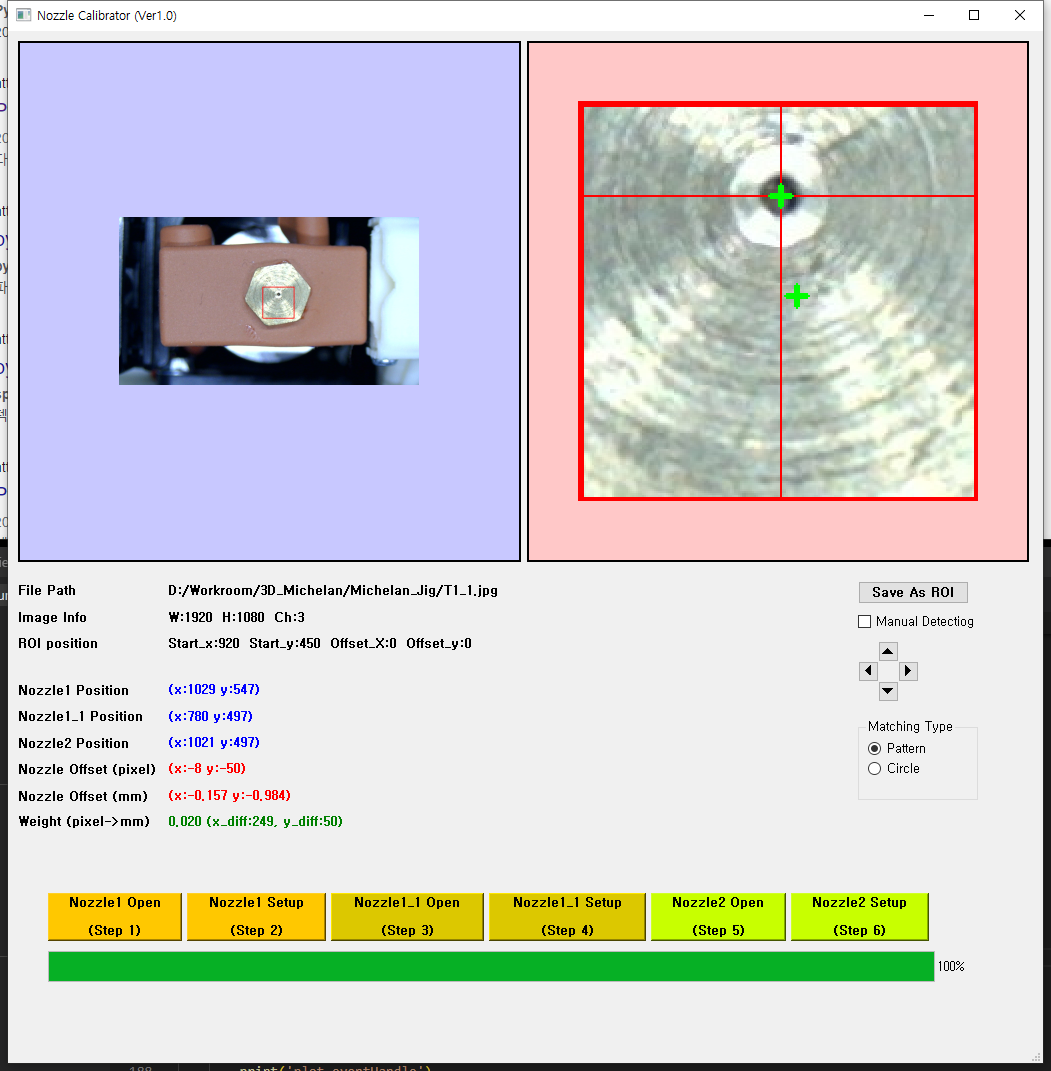
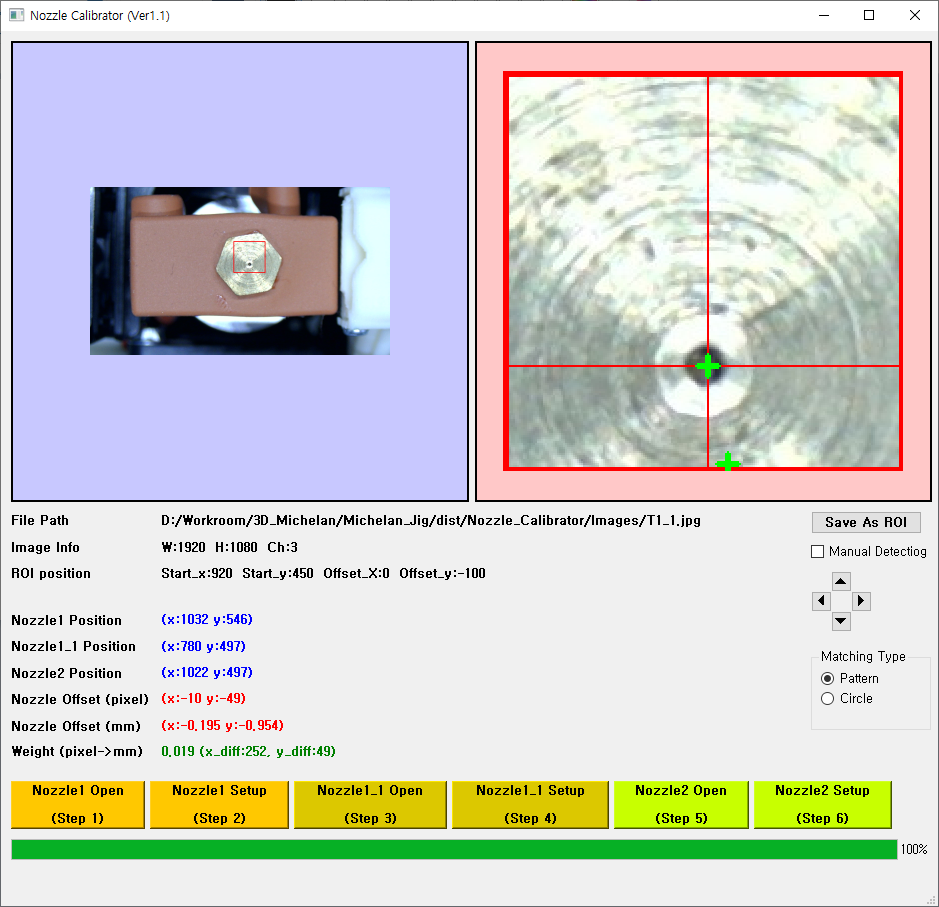
Snapshot : green cross display bug fixed.

diff --git a/Nozzle_Calibrator.py b/Nozzle_Calibrator.py
@@ -222,18 +222,22 @@ class WindowClass(QMainWindow, form_class) :
             self.nozzle_offset['y'] = self.nozzle_position['N2_y'] - self.nozzle_position['N1_y']
 
     def displayHole(self, image):
+        # line
         print('displayHole')
         cv2.line(self.RIO_img, (self.ROI_hole['x'], 0), (self.ROI_hole['x'], self.ROI['size']), (0, 0, 255), 1)
         cv2.line(self.RIO_img, (0, self.ROI_hole['y']), (self.ROI['size'], self.ROI_hole['y']), (0, 0, 255), 1)
+        # cross
         if self.Step == 6:
-            nozzle1_x = self.nozzle_position['N1_x'] - self.ROI['x'] + self.ROI_offset['x']
-            nozzle1_y = self.nozzle_position['N1_y'] - self.ROI['y'] + self.ROI_offset['y']
-            cv2.line(self.RIO_img, (nozzle1_x-5, nozzle1_y), (nozzle1_x+5, nozzle1_y), (0, 255, 0), 2)
-            cv2.line(self.RIO_img, (nozzle1_x, nozzle1_y-5), (nozzle1_x, nozzle1_y+5), (0, 255, 0), 2)
-            nozzle1_x = self.nozzle_position['N2_x'] - self.ROI['x'] + self.ROI_offset['x']
-            nozzle1_y = self.nozzle_position['N2_y'] - self.ROI['y'] + self.ROI_offset['y']
-            cv2.line(self.RIO_img, (nozzle1_x-5, nozzle1_y), (nozzle1_x+5, nozzle1_y), (0, 255, 0), 2)
-            cv2.line(self.RIO_img, (nozzle1_x, nozzle1_y-5), (nozzle1_x, nozzle1_y+5), (0, 255, 0), 2)
+            # nozzle 1
+            nozzle_x = self.ROI_hole['x'] - self.nozzle_offset['x'] 
+            nozzle_y = self.ROI_hole['y'] - self.nozzle_offset['y'] 
+            cv2.line(self.RIO_img, (nozzle_x-5, nozzle_y), (nozzle_x+5, nozzle_y), (0, 255, 0), 2)
+            cv2.line(self.RIO_img, (nozzle_x, nozzle_y-5), (nozzle_x, nozzle_y+5), (0, 255, 0), 2)
+            # nozzle 2
+            nozzle_x = self.ROI_hole['x']
+            nozzle_y = self.ROI_hole['y']
+            cv2.line(self.RIO_img, (nozzle_x-5, nozzle_y), (nozzle_x+5, nozzle_y), (0, 255, 0), 2)
+            cv2.line(self.RIO_img, (nozzle_x, nozzle_y-5), (nozzle_x, nozzle_y+5), (0, 255, 0), 2)
         self.showROI(self.RIO_img)
 
     def updateInfo(self):
@@ -412,12 +416,12 @@ class WindowClass(QMainWindow, form_class) :
                 cv2.imshow(method_name, img_draw)
                 cv2.setMouseCallback(method_name, self.mouse_callback)
 
+                self.Matching_Offset['x'] = self.Matching_Offset['y'] = self.Matching_Offset['mouse_clicked'] = 0
+                shape_change = False
+
                 # Save result
                 self.ROI_hole['x'] = round((top_left[0]+bottom_right[0])/2) + self.Matching_Offset['x']
                 self.ROI_hole['y'] = round((top_left[1]+bottom_right[1])/2) + self.Matching_Offset['y']
-
-                self.Matching_Offset['x'] = self.Matching_Offset['y'] = self.Matching_Offset['mouse_clicked'] = 0
-                shape_change = False
 
                 while True: 
                     
